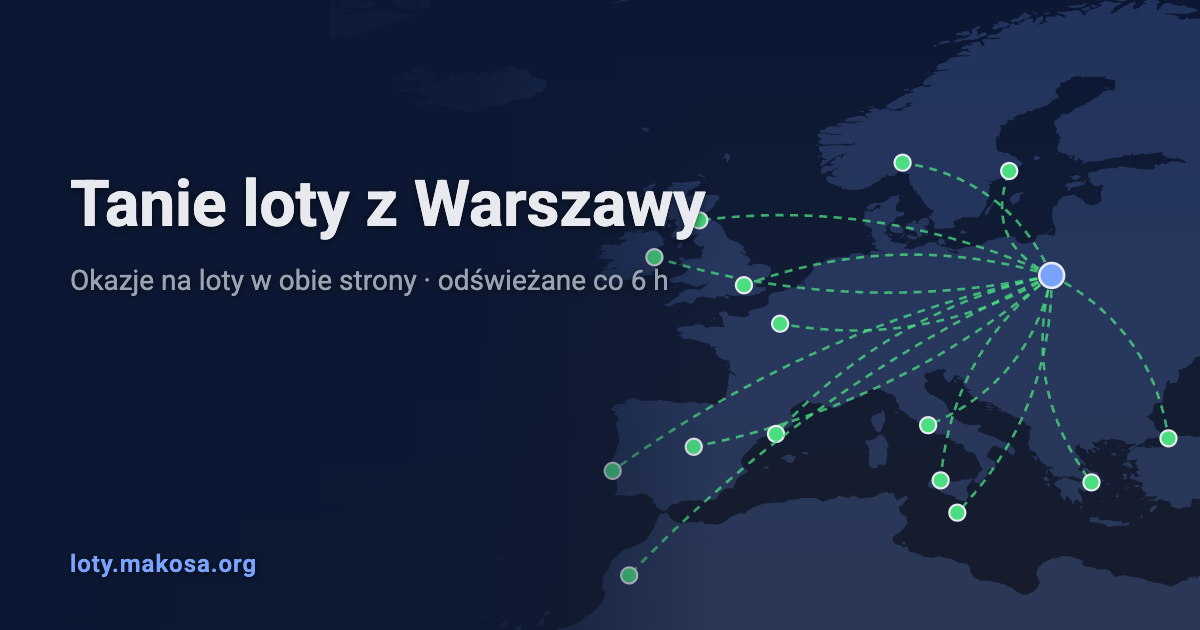
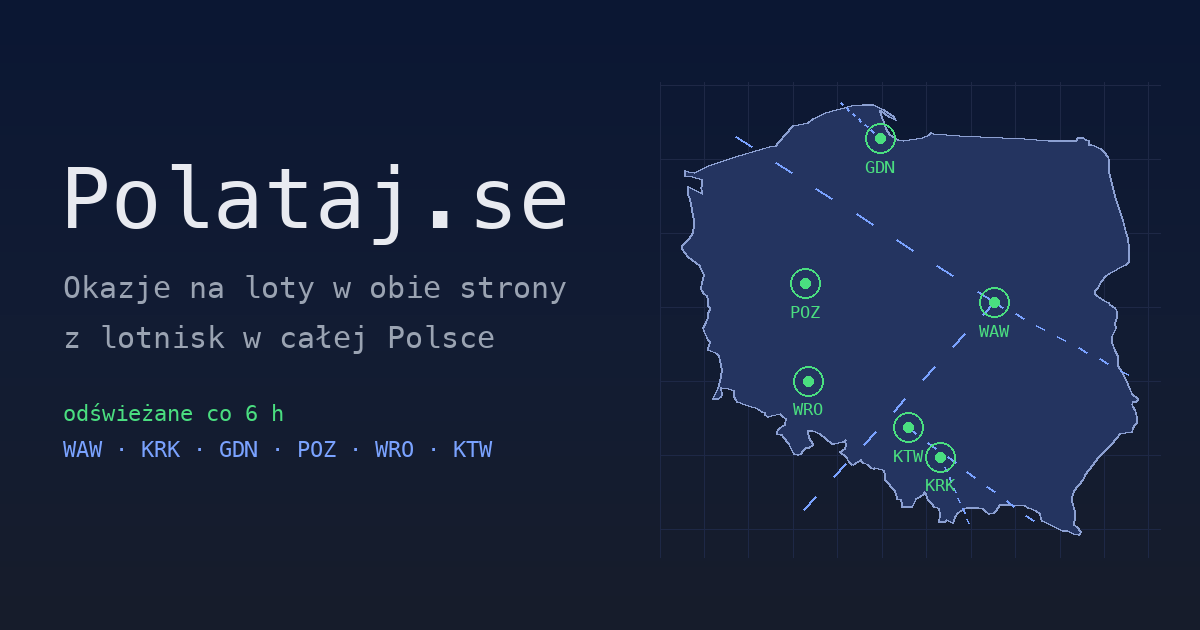
Nowa grafika og.png dla Polataj.se + generator tools/make_og.py
Generated with [Devin](https://devin.ai)

diff --git a/tools/make_og.py b/tools/make_og.py
@@ -1,0 +1,121 @@
+#!/usr/bin/env python3
+"""Generuje docs/og.png (1200x630) — grafika podglądu linku (Open Graph).
+Styl: techniczna mapa lotnicza, jak na stronie głównej.
+Użycie: python3 tools/make_og.py"""
+
+import re
+from pathlib import Path
+from PIL import Image, ImageDraw, ImageFont
+
+ROOT = Path(__file__).resolve().parent.parent
+OUT = ROOT / "docs" / "og.png"
+W, H = 1200, 630
+
+# granica Polski + porty — z docs/index.html (projekcja x=(lon-19)*cos52,
+# y=-(lat-52); y rośnie na południe, czyli w dół obrazka)
+INDEX = (ROOT / "docs" / "index.html").read_text(encoding="utf-8")
+D = re.search(r'class="border" d="([^"]+)"', INDEX).group(1)
+
+PORTS = [  # iata, x, y (jak na mapie)
+    ("WAW", 1.21114, -0.1657),
+    ("KRK", 0.483201, 1.9223),
+    ("GDN", -0.328661, -2.3776),
+    ("POZ", -1.33835, -0.421),
+    ("WRO", -1.30171, 0.8973),
+    ("KTW", 0.049256, 1.5257),
+]
+# kilka tras pokazowych: z lotniska -> kierunek (też w tej projekcji)
+ROUTES = [
+    ("WAW", -2.6, -2.6),   # Londyn
+    ("WAW", -1.6, 2.9),    # Barcelona
+    ("KRK", 0.9, 2.9),     # Rzym
+    ("GDN", -0.9, -2.9),   # Sztokholm
+    ("WAW", 3.2, 0.9),     # Kijów/strona wschodnia
+    ("KTW", 1.9, 2.9),     # Ateny
+]
+
+def font(path, size, index=0):
+    return ImageFont.truetype(path, size, index=index)
+
+MONO = "/System/Library/Fonts/Menlo.ttc"
+TEXT = "/System/Library/Fonts/SFNS.ttf"
+
+# obszar mapy: x -3.3..3.45, y -3.14..3.28 — skala do prawej części obrazka
+MX0, MX1, MY0, MY1 = -3.3, 3.45, -3.14, 3.28
+MAP_BOX = (660, 40, 1160, 600)  # px: lewo, góra, prawo, dół
+sc = min((MAP_BOX[2] - MAP_BOX[0]) / (MX1 - MX0),
+         (MAP_BOX[3] - MAP_BOX[1]) / (MY1 - MY0))
+cx0 = MAP_BOX[0] + ((MAP_BOX[2] - MAP_BOX[0]) - sc * (MX1 - MX0)) / 2
+cy0 = MAP_BOX[1] + ((MAP_BOX[3] - MAP_BOX[1]) - sc * (MY1 - MY0)) / 2
+
+def px(x, y):
+    return cx0 + (x - MX0) * sc, cy0 + (y - MY0) * sc
+
+img = Image.new("RGB", (W, H))
+dr = ImageDraw.Draw(img)
+
+# tło — pionowy gradient jak na stronie
+top, mid, bot = (11, 23, 51), (18, 28, 52), (23, 28, 43)
+for y in range(H):
+    t = y / H
+    c = tuple(int(top[i] + (mid[i] - top[i]) * t * 2) if t < .5
+              else int(mid[i] + (bot[i] - mid[i]) * (t - .5) * 2)
+              for i in range(3))
+    dr.line([(0, y), (W, y)], fill=c)
+
+# siatka 1° jak na mapie
+grid = (122, 162, 255, 35)
+for gx in [x / 10 for x in range(-33, 35, 6)]:
+    a, b = px(gx, MY0), px(gx, MY1)
+    dr.line([a, b], fill=(30, 40, 70), width=1)
+for gy in [y / 10 for y in range(-31, 33, 10)]:
+    a, b = px(MX0, gy), px(MX1, gy)
+    dr.line([a, b], fill=(30, 40, 70), width=1)
+
+# kontur Polski
+pts = [(float(x), float(y)) for x, y in
+       re.findall(r"[ML](-?\d+\.?\d*),(-?\d+\.?\d*)", D)]
+poly = [px(x, y) for x, y in pts]
+dr.polygon(poly, fill=(36, 52, 96))
+dr.line(poly + [poly[0]], fill=(140, 160, 210), width=2)
+
+# trasy przerywane z lotnisk
+airports = {p[0]: (p[1], p[2]) for p in PORTS}
+for src, tx, ty in ROUTES:
+    x1, y1 = px(*airports[src])
+    x2, y2 = px(tx, ty)
+    seg = 14
+    dx, dy = (x2 - x1) / seg, (y2 - y1) / seg
+    for i in range(0, seg, 2):
+        dr.line([(x1 + dx * i, y1 + dy * i),
+                 (x1 + dx * (i + .8), y1 + dy * (i + .8))],
+                fill=(122, 162, 255), width=2)
+
+f_iata = font(MONO, 17)
+f_city = font(MONO, 13)
+f_title = font(MONO, 84)
+f_sub = font(MONO, 30)
+f_small = font(MONO, 22)
+
+# porty — zielone znaczniki jak na mapie
+green = (74, 222, 128)
+for iata, x, y in PORTS:
+    cx, cy = px(x, y)
+    dr.ellipse([cx - 15, cy - 15, cx + 15, cy + 15],
+               outline=(*green,), width=2)
+    dr.ellipse([cx - 5, cy - 5, cx + 5, cy + 5], fill=green)
+    tw = dr.textlength(iata, font=f_iata)
+    dr.text((cx - tw / 2, cy + 18), iata, font=f_iata, fill=green)
+
+# teksty po lewej
+dr.text((60, 150), "Polataj.se", font=f_title, fill=(232, 234, 240))
+dr.text((63, 270), "Okazje na loty w obie strony", font=f_sub,
+        fill=(154, 163, 178))
+dr.text((63, 320), "z lotnisk w całej Polsce", font=f_sub,
+        fill=(154, 163, 178))
+dr.text((63, 400), "odświeżane co 6 h", font=f_small, fill=green)
+dr.text((63, 436), "WAW · KRK · GDN · POZ · WRO · KTW", font=f_small,
+        fill=(122, 162, 255))
+
+img.save(OUT, "PNG")
+print("zapisano", OUT, img.size)
